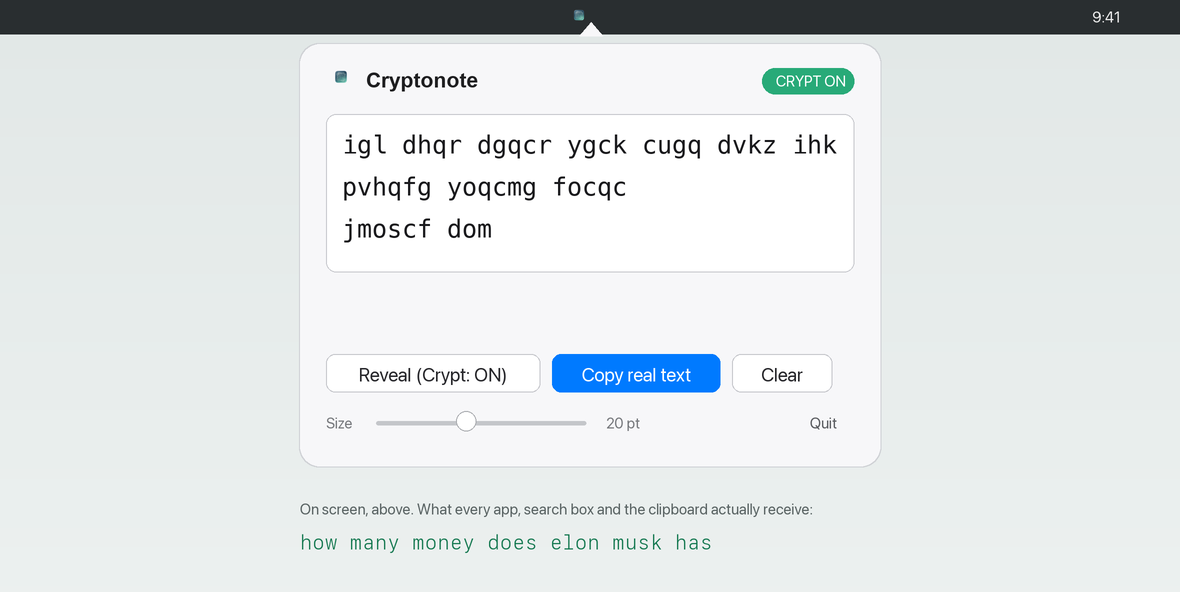
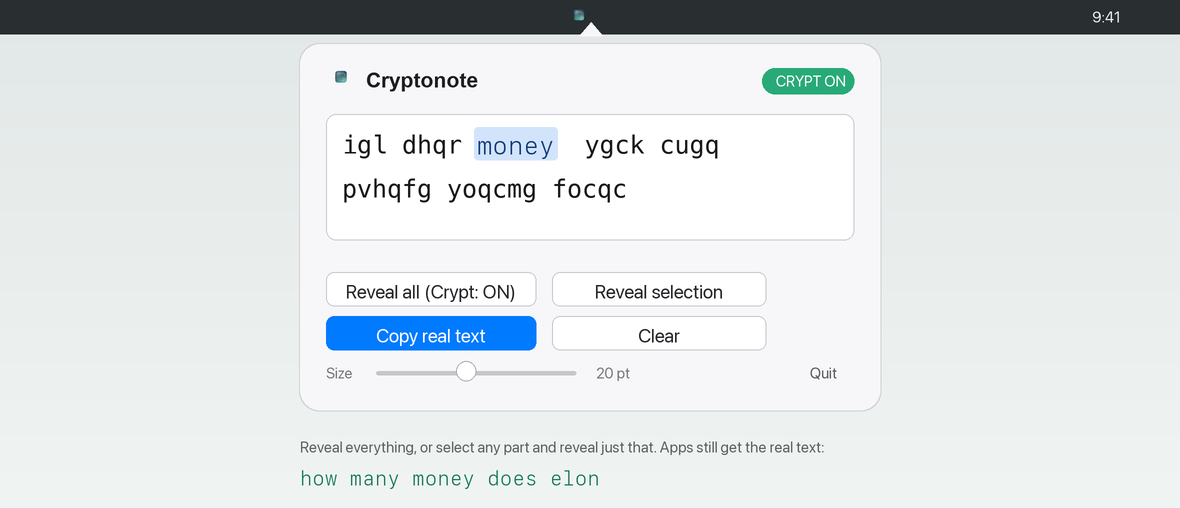
Add per-selection reveal, keep whole-document reveal

diff --git a/app/main.swift b/app/main.swift
@@ -52,35 +52,58 @@ final class ScratchVC: NSViewController {
     var size: CGFloat = defaultSize
 
     func currentFont() -> NSFont { crypt ? cryptFont(size) : plainFont(size) }
+    func fontFor(_ scrambled: Bool) -> NSFont { scrambled ? cryptFont(size) : plainFont(size) }
+
+    // A run is "scrambled" when it is drawn with the Cryptonote font.
+    func isCryptFont(_ f: NSFont?) -> Bool {
+        guard let f = f else { return true }
+        return f.fontName.contains(cryptFontName) || (f.familyName?.contains(cryptFontName) ?? false)
+    }
+
+    func setFont(_ scrambled: Bool, range: NSRange) {
+        guard range.length > 0, let ts = textView.textStorage else { return }
+        ts.addAttribute(.font, value: fontFor(scrambled), range: range)
+    }
 
     override func loadView() {
-        let root = NSView(frame: NSRect(x: 0, y: 0, width: 460, height: 360))
+        let root = NSView(frame: NSRect(x: 0, y: 0, width: 460, height: 420))
 
         // scrollable text area
-        let scroll = NSScrollView(frame: NSRect(x: 14, y: 92, width: 432, height: 254))
+        let scroll = NSScrollView(frame: NSRect(x: 14, y: 132, width: 432, height: 274))
         scroll.hasVerticalScroller = true
         scroll.borderType = .lineBorder
         scroll.autoresizingMask = [.width, .height]
         textView.frame = scroll.bounds
         textView.isEditable = true
-        textView.isRichText = false          // single font for the whole buffer
+        textView.isRichText = true           // allow per-range fonts for partial reveal
         textView.allowsUndo = true
         textView.textContainerInset = NSSize(width: 6, height: 8)
-        textView.font = currentFont()
+        textView.textColor = .textColor
+        textView.typingAttributes = [.font: currentFont(), .foregroundColor: NSColor.textColor]
         textView.string = "how many money does elon musk has"
+        let full = NSRange(location: 0, length: (textView.string as NSString).length)
+        textView.textStorage?.addAttribute(.font, value: cryptFont(size), range: full)
+        textView.textStorage?.addAttribute(.foregroundColor, value: NSColor.textColor, range: full)
         scroll.documentView = textView
         root.addSubview(scroll)
 
-        // Crypt toggle
-        toggleButton.frame = NSRect(x: 14, y: 50, width: 150, height: 30)
+        // Row 1: reveal the whole document (original toggle) or just the selection
+        toggleButton.frame = NSRect(x: 14, y: 90, width: 210, height: 30)
         toggleButton.bezelStyle = .rounded
-        toggleButton.title = "Reveal (Crypt: ON)"
+        toggleButton.title = "Reveal all (Crypt: ON)"
         toggleButton.target = self
         toggleButton.action = #selector(toggleCrypt)
         root.addSubview(toggleButton)
 
-        // Copy real text
-        let copyBtn = NSButton(frame: NSRect(x: 172, y: 50, width: 150, height: 30))
+        let revealSelBtn = NSButton(frame: NSRect(x: 232, y: 90, width: 214, height: 30))
+        revealSelBtn.bezelStyle = .rounded
+        revealSelBtn.title = "Reveal selection"
+        revealSelBtn.target = self
+        revealSelBtn.action = #selector(revealSelection)
+        root.addSubview(revealSelBtn)
+
+        // Row 2: copy the real text, or clear
+        let copyBtn = NSButton(frame: NSRect(x: 14, y: 52, width: 210, height: 30))
         copyBtn.bezelStyle = .rounded
         copyBtn.title = "Copy real text"
         copyBtn.keyEquivalent = "\r"
@@ -88,8 +111,7 @@ final class ScratchVC: NSViewController {
         copyBtn.action = #selector(copyReal)
         root.addSubview(copyBtn)
 
-        // Clear
-        let clearBtn = NSButton(frame: NSRect(x: 330, y: 50, width: 116, height: 30))
+        let clearBtn = NSButton(frame: NSRect(x: 232, y: 52, width: 214, height: 30))
         clearBtn.bezelStyle = .rounded
         clearBtn.title = "Clear"
         clearBtn.target = self
@@ -131,13 +153,37 @@ final class ScratchVC: NSViewController {
     @objc func sizeChanged() {
         size = CGFloat(sizeSlider.doubleValue.rounded())
         sizeLabel.stringValue = "\(Int(size)) pt"
-        textView.font = currentFont()
+        guard let ts = textView.textStorage else { return }
+        // Resize every run while keeping whether it is scrambled or revealed.
+        var runs: [(NSRange, Bool)] = []
+        ts.enumerateAttribute(.font, in: NSRange(location: 0, length: ts.length)) { v, r, _ in
+            runs.append((r, isCryptFont(v as? NSFont)))
+        }
+        ts.beginEditing()
+        for (r, scrambled) in runs { ts.addAttribute(.font, value: fontFor(scrambled), range: r) }
+        ts.endEditing()
+        textView.typingAttributes[.font] = currentFont()
     }
 
     @objc func toggleCrypt() {
+        // Whole-document reveal or scramble. This is the original behaviour.
         crypt.toggle()
-        textView.font = currentFont()
-        toggleButton.title = crypt ? "Reveal (Crypt: ON)" : "Scramble (Crypt: OFF)"
+        setFont(crypt, range: NSRange(location: 0, length: textView.textStorage?.length ?? 0))
+        textView.typingAttributes[.font] = currentFont()
+        toggleButton.title = crypt ? "Reveal all (Crypt: ON)" : "Scramble all (Crypt: OFF)"
+    }
+
+    @objc func revealSelection() {
+        // Reveal, or re-hide, only the range selected with the mouse.
+        guard let ts = textView.textStorage else { return }
+        let sel = textView.selectedRange()
+        guard sel.length > 0 else { NSSound.beep(); return }
+        var anyScrambled = false
+        ts.enumerateAttribute(.font, in: sel) { v, _, _ in
+            if isCryptFont(v as? NSFont) { anyScrambled = true }
+        }
+        // If any of the selection is still scrambled, reveal it. Otherwise hide it.
+        setFont(!anyScrambled, range: sel)
     }
 
     @objc func copyReal() {
@@ -148,6 +194,7 @@ final class ScratchVC: NSViewController {
 
     @objc func clearText() {
         textView.string = ""
+        textView.typingAttributes[.font] = currentFont()
         view.window?.makeFirstResponder(textView)
     }
 

diff --git a/README.md b/README.md
@@ -47,6 +47,7 @@ It deliberately does not encrypt anything. This is protection against a glance, 
 
 - **The real text is never altered.** Copy, paste, search, and save all receive the true characters, because only the glyph shapes change.
 - **Instant reveal.** Switch the display font back and the same text reads normally. Nothing to decrypt.
+- **Reveal a selection.** Select any part of the text with the mouse and reveal just that, while the rest stays scrambled. The whole-document reveal still works too.
 - **Works in real editors.** Set the font in TextEdit, Pages, VS Code, Terminal, and any field that lets you choose a font.
 - **Covers Safari too.** A menu-bar scratchpad holds the scrambled text and copies the real text for pasting into fixed-font fields.
 - **Many languages.** Latin, Greek, Cyrillic, and Chinese are all scrambled in the scratchpad, covering a large share of the world's most spoken languages.
@@ -129,8 +130,9 @@ Some fields have a fixed font you cannot change, including Safari's address bar 
 
 1. Launch the app. A lock icon appears in the menu bar with no dock icon.
 2. Click the icon. A scratchpad drops down. Type into it, and the screen shows scrambled glyphs while the buffer holds the real text.
-3. Use **Reveal** to flip between scrambled and readable on screen.
-4. Use **Copy real text** to put the true characters on the clipboard.
+3. Use **Reveal all** to flip the whole document between scrambled and readable on screen.
+4. Select any part with the mouse and use **Reveal selection** to reveal just that piece, leaving the rest scrambled. Click it again on a revealed piece to hide it once more.
+5. Use **Copy real text** to put the true characters on the clipboard.
 5. Drag the size slider to set the font size you want.
 
 For a private Safari search, click the icon, type your query so it shows as nonsense on screen, press **Copy real text**, click Safari's search bar, and paste. Safari runs the real query while anyone watching saw only noise.
